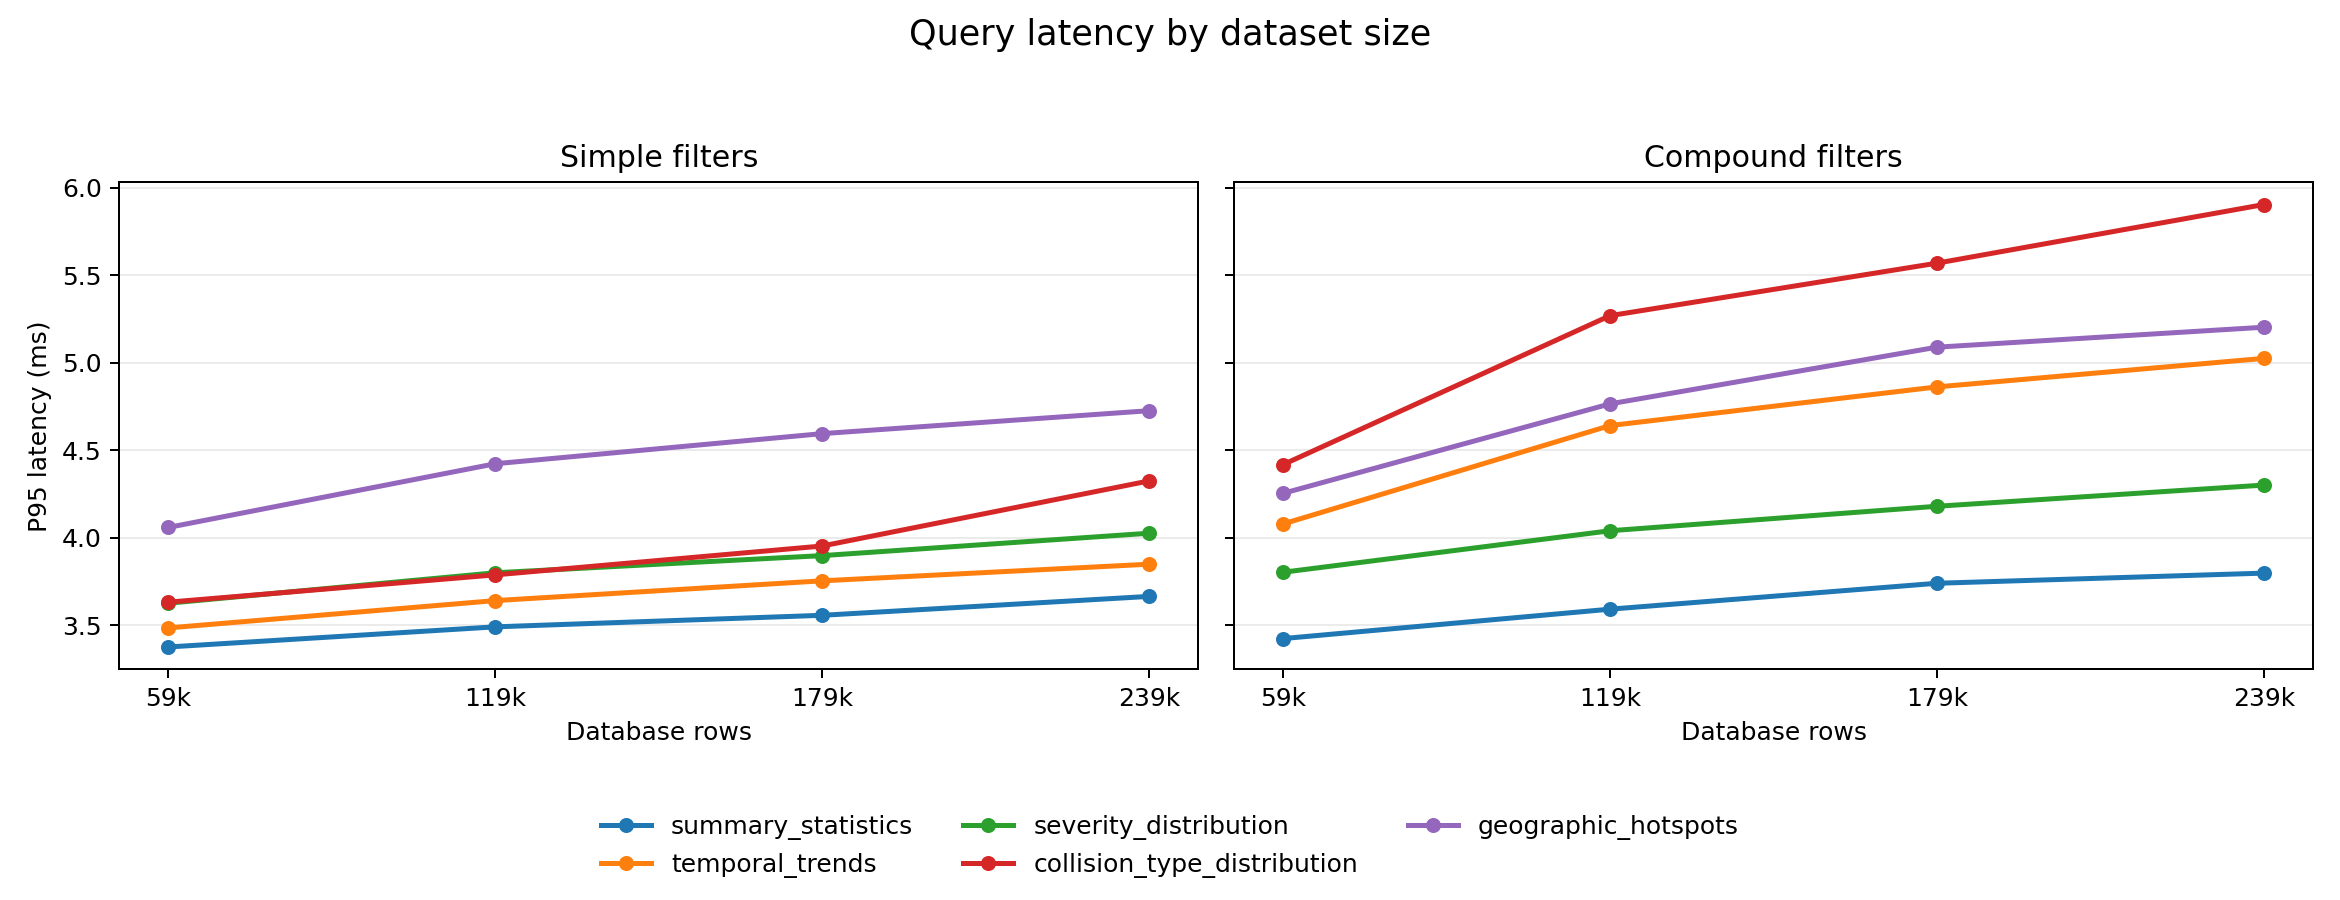
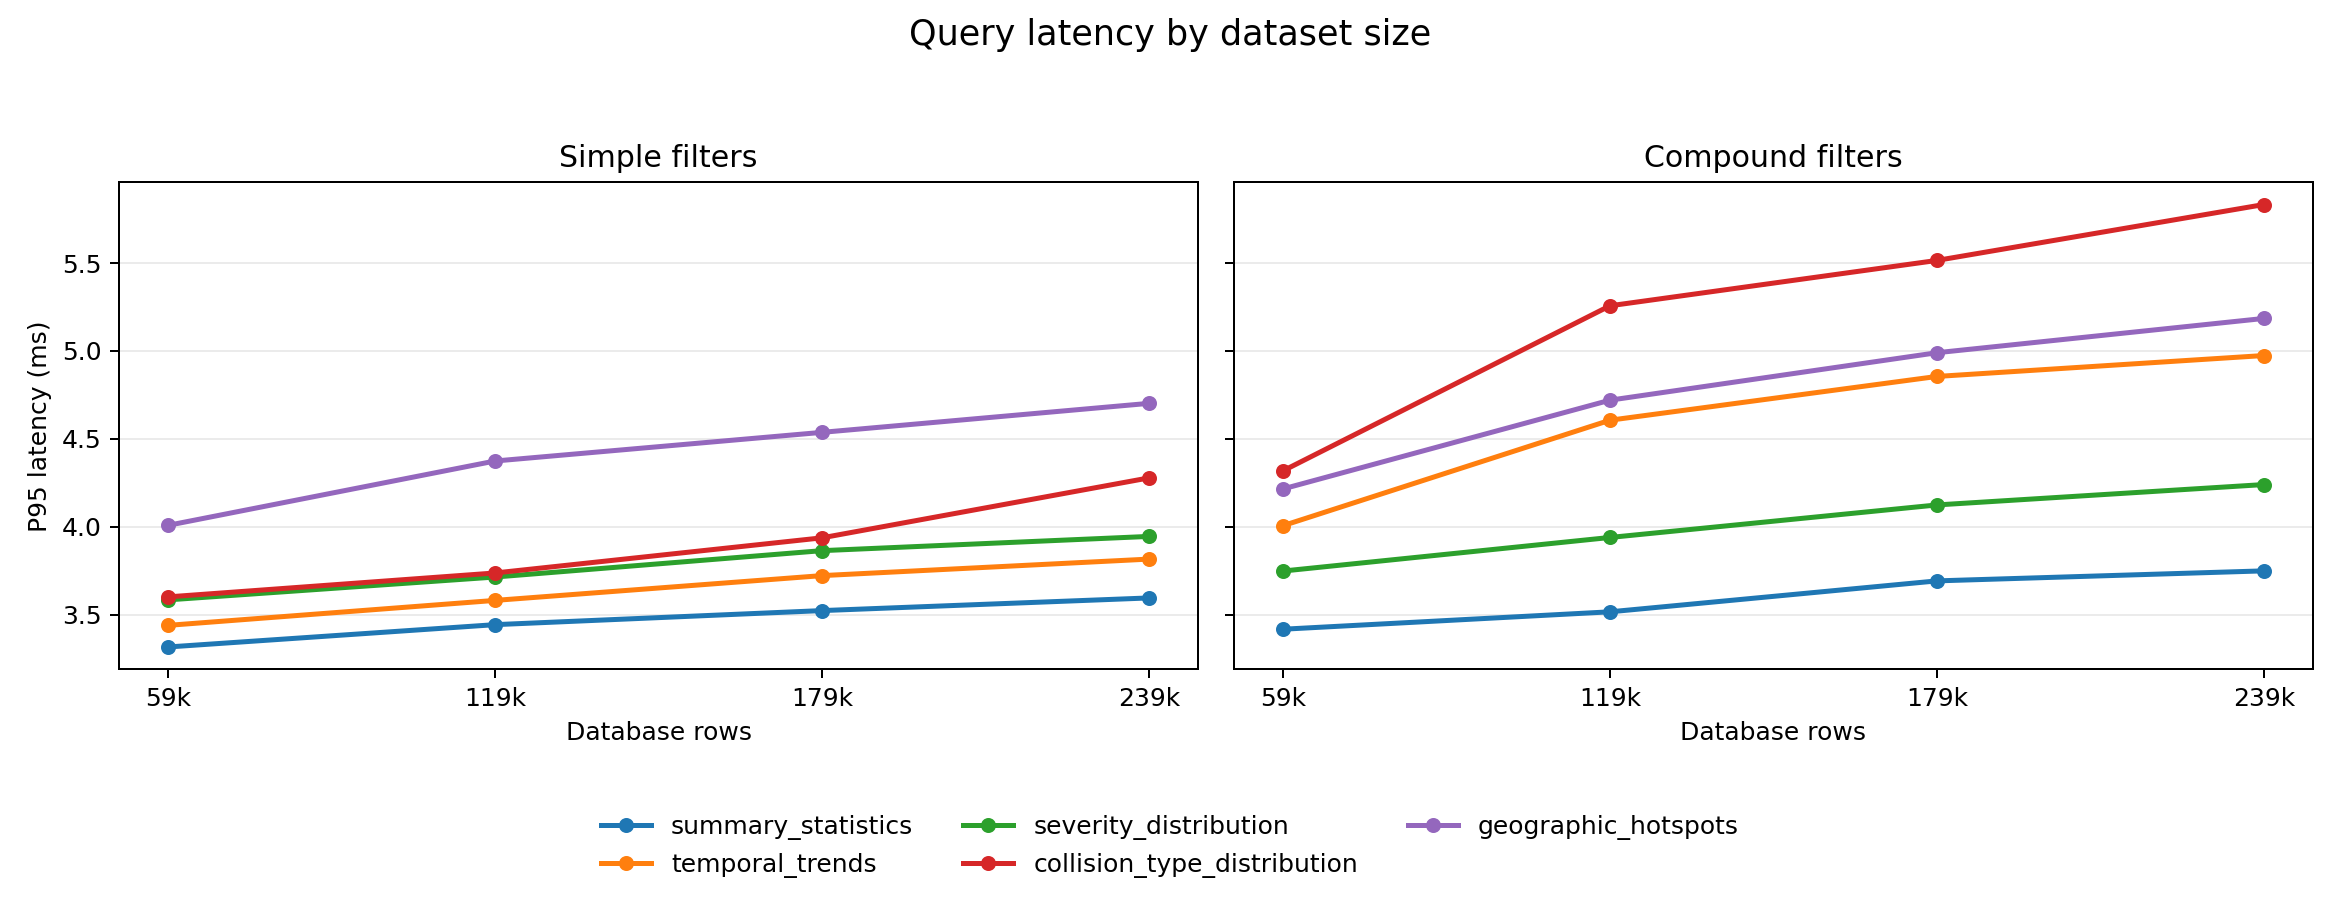
Add Colab ci

diff --git a/evaluation/benchmark_conversational_accuracy.py b/evaluation/benchmark_conversational_accuracy.py
@@ -30,7 +30,7 @@ PROJECT_ROOT = Path(__file__).resolve().parents[1]
 DATABASE_PATH = PROJECT_ROOT / "data" / "collisions.duckdb"
 REPORT_PATH = PROJECT_ROOT / "evaluation" / "conversational_accuracy_summary.md"
 LOG_PATH = PROJECT_ROOT / "evaluation" / "agent.log"
-RUNS_PER_CASE = 3
+RUNS_PER_CASE = 1
 
 sys.path.insert(0, str(PROJECT_ROOT))
 

diff --git a/evaluation/filter_latency_summary.md b/evaluation/filter_latency_summary.md
@@ -4,43 +4,43 @@
 
 | Scale | Rows | Query | Query Type | P95 (ms) | Max (ms) |
 |---:|---:|---|---|---:|---:|
-| 25% | 59,897 | summary_statistics | simple | 3.375 | 3.656 |
-| 25% | 59,897 | summary_statistics | compound | 3.423 | 3.491 |
-| 25% | 59,897 | temporal_trends | simple | 3.484 | 6.302 |
-| 25% | 59,897 | temporal_trends | compound | 4.078 | 10.755 |
-| 25% | 59,897 | severity_distribution | simple | 3.625 | 3.705 |
-| 25% | 59,897 | severity_distribution | compound | 3.802 | 3.968 |
-| 25% | 59,897 | collision_type_distribution | simple | 3.631 | 10.425 |
-| 25% | 59,897 | collision_type_distribution | compound | 4.417 | 6.367 |
-| 25% | 59,897 | geographic_hotspots | simple | 4.058 | 8.690 |
-| 25% | 59,897 | geographic_hotspots | compound | 4.253 | 4.352 |
-| 50% | 119,794 | summary_statistics | simple | 3.490 | 3.789 |
-| 50% | 119,794 | summary_statistics | compound | 3.591 | 3.670 |
-| 50% | 119,794 | temporal_trends | simple | 3.640 | 3.680 |
-| 50% | 119,794 | temporal_trends | compound | 4.640 | 4.890 |
-| 50% | 119,794 | severity_distribution | simple | 3.799 | 3.868 |
-| 50% | 119,794 | severity_distribution | compound | 4.039 | 4.093 |
-| 50% | 119,794 | collision_type_distribution | simple | 3.787 | 4.021 |
-| 50% | 119,794 | collision_type_distribution | compound | 5.268 | 5.364 |
-| 50% | 119,794 | geographic_hotspots | simple | 4.422 | 4.512 |
-| 50% | 119,794 | geographic_hotspots | compound | 4.764 | 4.925 |
-| 75% | 179,691 | summary_statistics | simple | 3.556 | 3.657 |
-| 75% | 179,691 | summary_statistics | compound | 3.739 | 3.808 |
-| 75% | 179,691 | temporal_trends | simple | 3.753 | 3.798 |
-| 75% | 179,691 | temporal_trends | compound | 4.861 | 4.966 |
-| 75% | 179,691 | severity_distribution | simple | 3.897 | 3.989 |
-| 75% | 179,691 | severity_distribution | compound | 4.179 | 4.234 |
-| 75% | 179,691 | collision_type_distribution | simple | 3.952 | 4.025 |
-| 75% | 179,691 | collision_type_distribution | compound | 5.568 | 5.961 |
-| 75% | 179,691 | geographic_hotspots | simple | 4.594 | 4.758 |
-| 75% | 179,691 | geographic_hotspots | compound | 5.088 | 5.158 |
-| 100% | 239,588 | summary_statistics | simple | 3.664 | 3.742 |
-| 100% | 239,588 | summary_statistics | compound | 3.797 | 3.822 |
-| 100% | 239,588 | temporal_trends | simple | 3.848 | 4.034 |
-| 100% | 239,588 | temporal_trends | compound | 5.024 | 5.120 |
-| 100% | 239,588 | severity_distribution | simple | 4.025 | 4.114 |
-| 100% | 239,588 | severity_distribution | compound | 4.300 | 4.336 |
-| 100% | 239,588 | collision_type_distribution | simple | 4.324 | 4.371 |
-| 100% | 239,588 | collision_type_distribution | compound | 5.903 | 6.084 |
-| 100% | 239,588 | geographic_hotspots | simple | 4.725 | 4.909 |
-| 100% | 239,588 | geographic_hotspots | compound | 5.202 | 5.711 |
+| 25% | 59,897 | summary_statistics | simple | 3.316 | 3.359 |
+| 25% | 59,897 | summary_statistics | compound | 3.417 | 3.537 |
+| 25% | 59,897 | temporal_trends | simple | 3.439 | 3.475 |
+| 25% | 59,897 | temporal_trends | compound | 4.006 | 4.094 |
+| 25% | 59,897 | severity_distribution | simple | 3.584 | 3.626 |
+| 25% | 59,897 | severity_distribution | compound | 3.748 | 3.799 |
+| 25% | 59,897 | collision_type_distribution | simple | 3.601 | 3.670 |
+| 25% | 59,897 | collision_type_distribution | compound | 4.318 | 4.409 |
+| 25% | 59,897 | geographic_hotspots | simple | 4.008 | 4.103 |
+| 25% | 59,897 | geographic_hotspots | compound | 4.215 | 4.272 |
+| 50% | 119,794 | summary_statistics | simple | 3.443 | 3.610 |
+| 50% | 119,794 | summary_statistics | compound | 3.516 | 3.721 |
+| 50% | 119,794 | temporal_trends | simple | 3.581 | 3.750 |
+| 50% | 119,794 | temporal_trends | compound | 4.606 | 4.776 |
+| 50% | 119,794 | severity_distribution | simple | 3.714 | 3.867 |
+| 50% | 119,794 | severity_distribution | compound | 3.939 | 4.060 |
+| 50% | 119,794 | collision_type_distribution | simple | 3.737 | 3.969 |
+| 50% | 119,794 | collision_type_distribution | compound | 5.257 | 5.747 |
+| 50% | 119,794 | geographic_hotspots | simple | 4.374 | 4.662 |
+| 50% | 119,794 | geographic_hotspots | compound | 4.720 | 4.852 |
+| 75% | 179,691 | summary_statistics | simple | 3.523 | 3.598 |
+| 75% | 179,691 | summary_statistics | compound | 3.692 | 3.760 |
+| 75% | 179,691 | temporal_trends | simple | 3.722 | 3.827 |
+| 75% | 179,691 | temporal_trends | compound | 4.855 | 4.888 |
+| 75% | 179,691 | severity_distribution | simple | 3.864 | 3.912 |
+| 75% | 179,691 | severity_distribution | compound | 4.124 | 4.195 |
+| 75% | 179,691 | collision_type_distribution | simple | 3.937 | 3.974 |
+| 75% | 179,691 | collision_type_distribution | compound | 5.515 | 5.554 |
+| 75% | 179,691 | geographic_hotspots | simple | 4.537 | 4.647 |
+| 75% | 179,691 | geographic_hotspots | compound | 4.990 | 5.049 |
+| 100% | 239,588 | summary_statistics | simple | 3.595 | 3.654 |
+| 100% | 239,588 | summary_statistics | compound | 3.749 | 3.778 |
+| 100% | 239,588 | temporal_trends | simple | 3.816 | 4.047 |
+| 100% | 239,588 | temporal_trends | compound | 4.974 | 5.093 |
+| 100% | 239,588 | severity_distribution | simple | 3.945 | 4.046 |
+| 100% | 239,588 | severity_distribution | compound | 4.240 | 4.304 |
+| 100% | 239,588 | collision_type_distribution | simple | 4.278 | 4.320 |
+| 100% | 239,588 | collision_type_distribution | compound | 5.833 | 5.966 |
+| 100% | 239,588 | geographic_hotspots | simple | 4.702 | 4.768 |
+| 100% | 239,588 | geographic_hotspots | compound | 5.185 | 5.364 |

diff --git a/README.md b/README.md
@@ -38,6 +38,20 @@ especially on a CPU-only runtime. When an NVIDIA GPU is visible, the runner
 exposes it to Ollama and verifies nonzero model VRAM usage before starting the
 model-backed evaluations; it fails early if Ollama silently falls back to CPU.
 
+## Reproduce tests and evaluation reports on macOS
+
+The macOS runner executes the same tests, benchmarks, artifact checks, and GPU
+verification as the Colab runner while using the local Ollama installation and
+Apple accelerator when available:
+
+```bash
+./mac_ci.sh
+```
+
+Both runners create the same files under `evaluation/`. Conversational accuracy
+uses one independent run for each of the 12 prompts; model-generated answers and
+accuracy can still vary between executions.
+
 Run the one-time ingestion:
 
 ```bash
